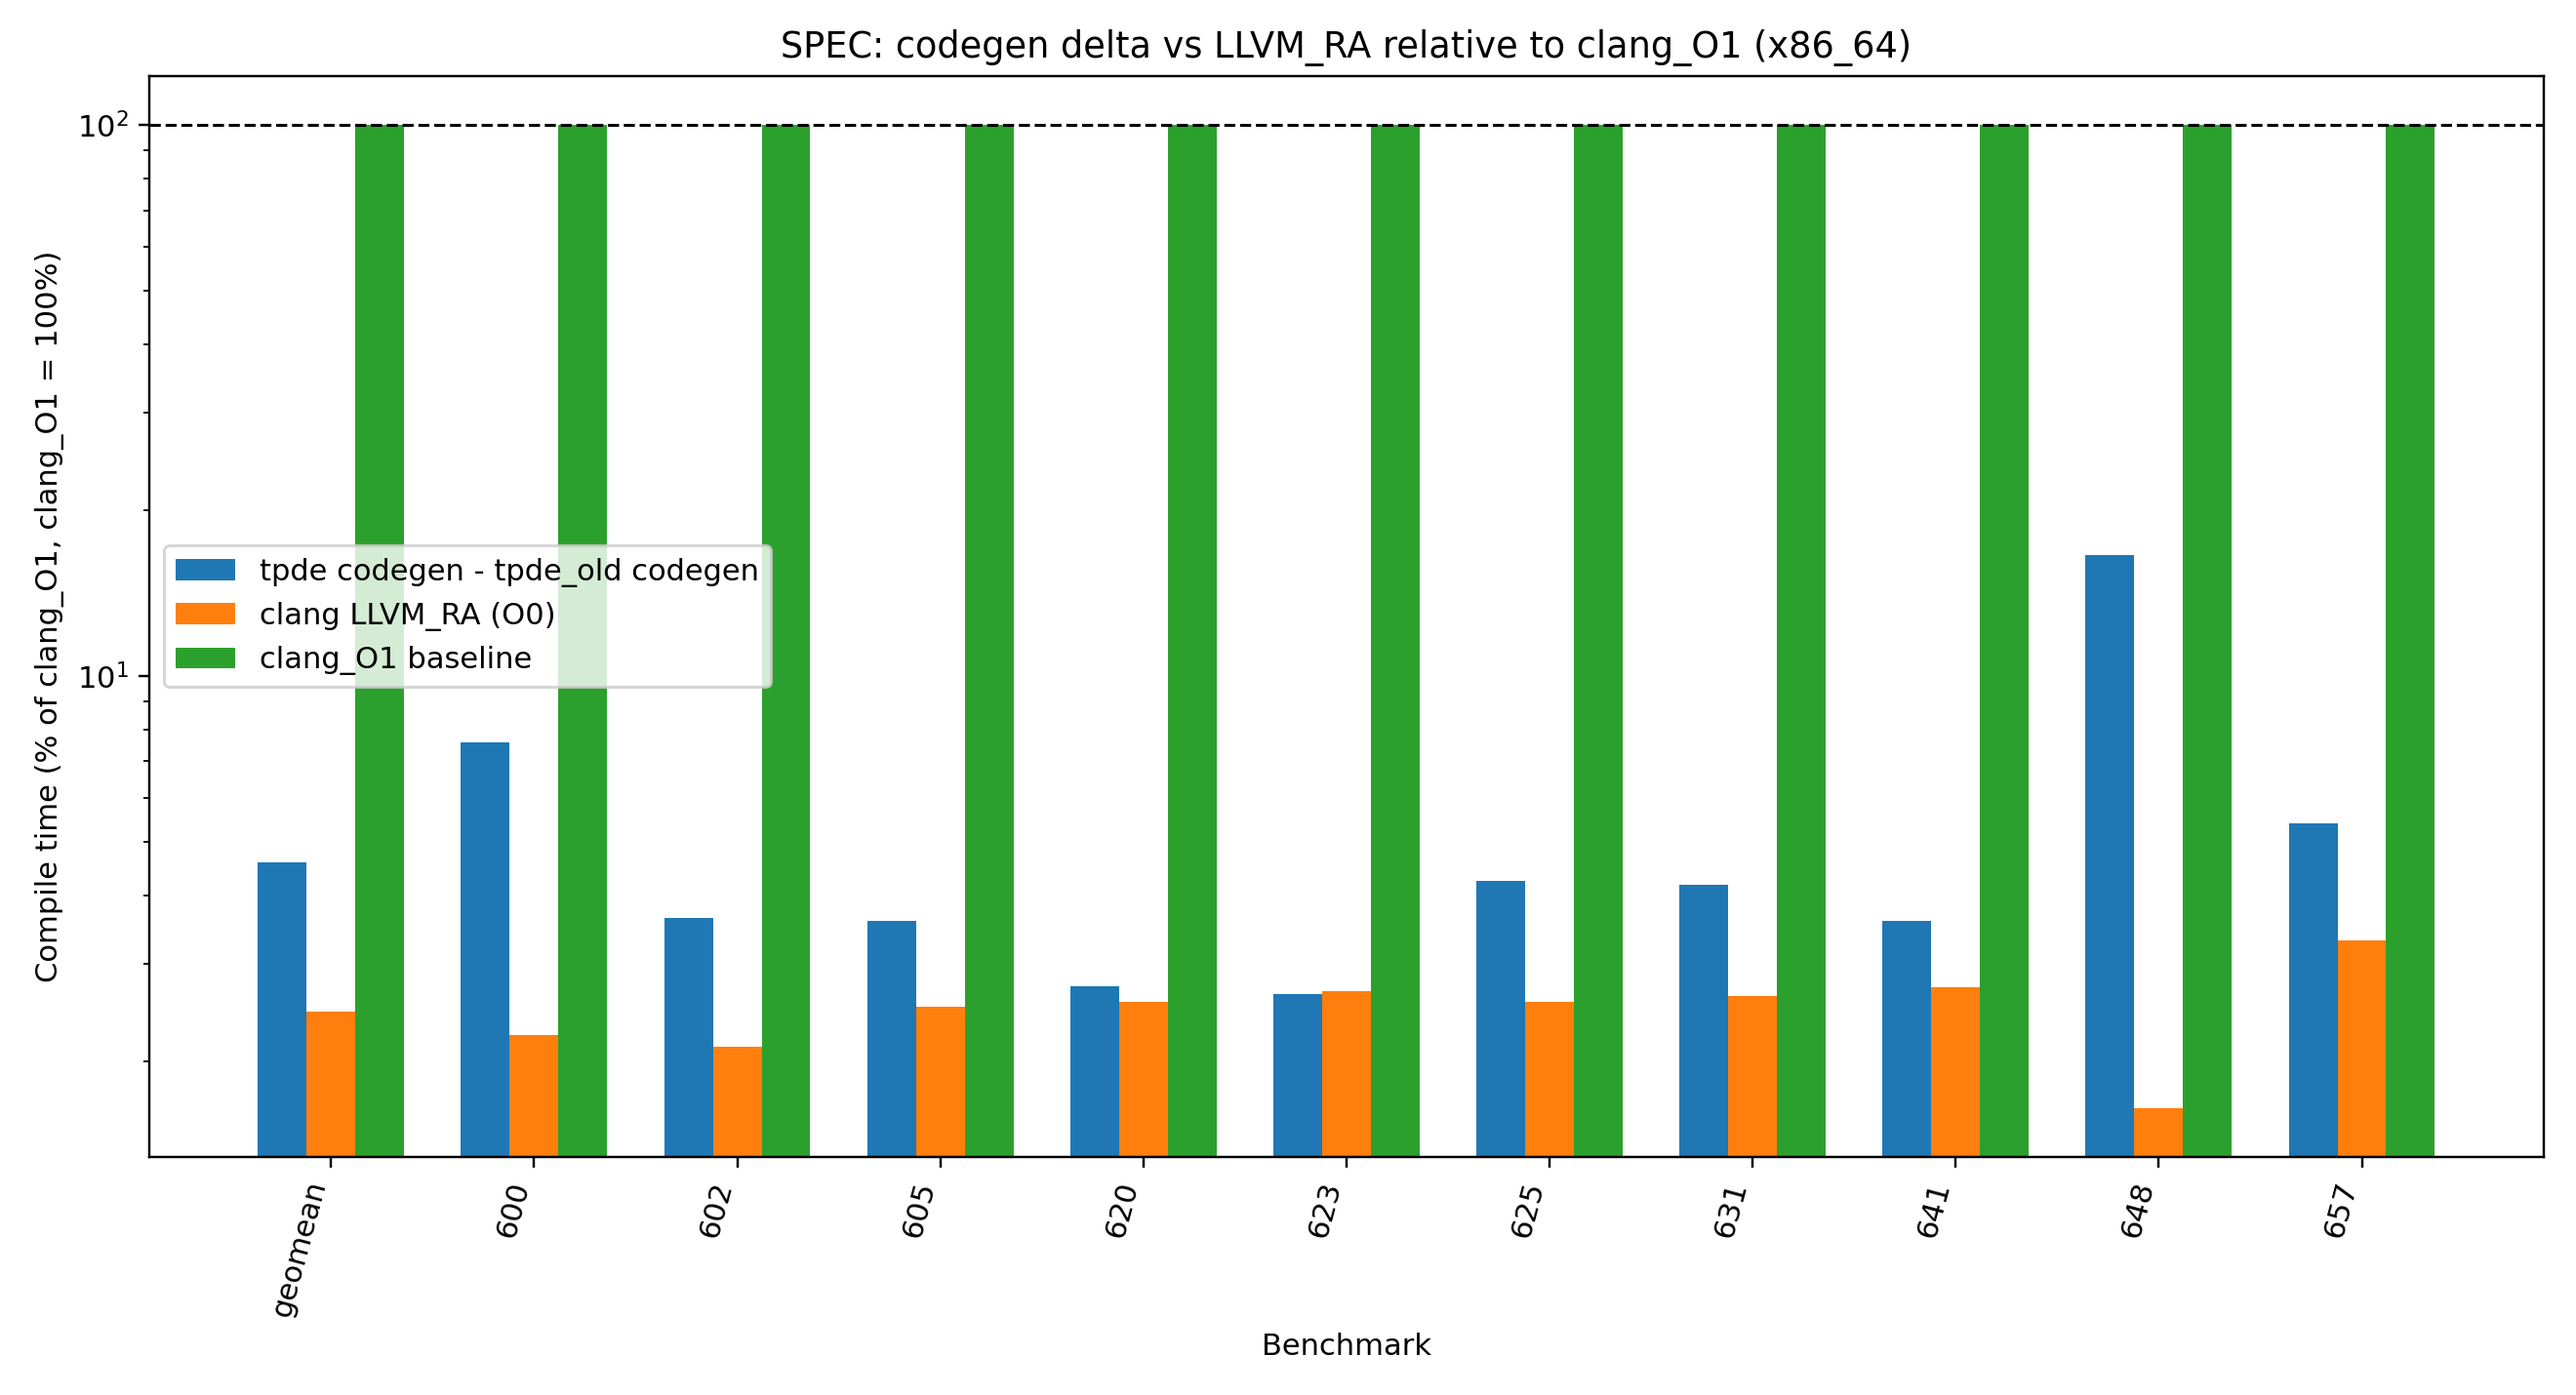
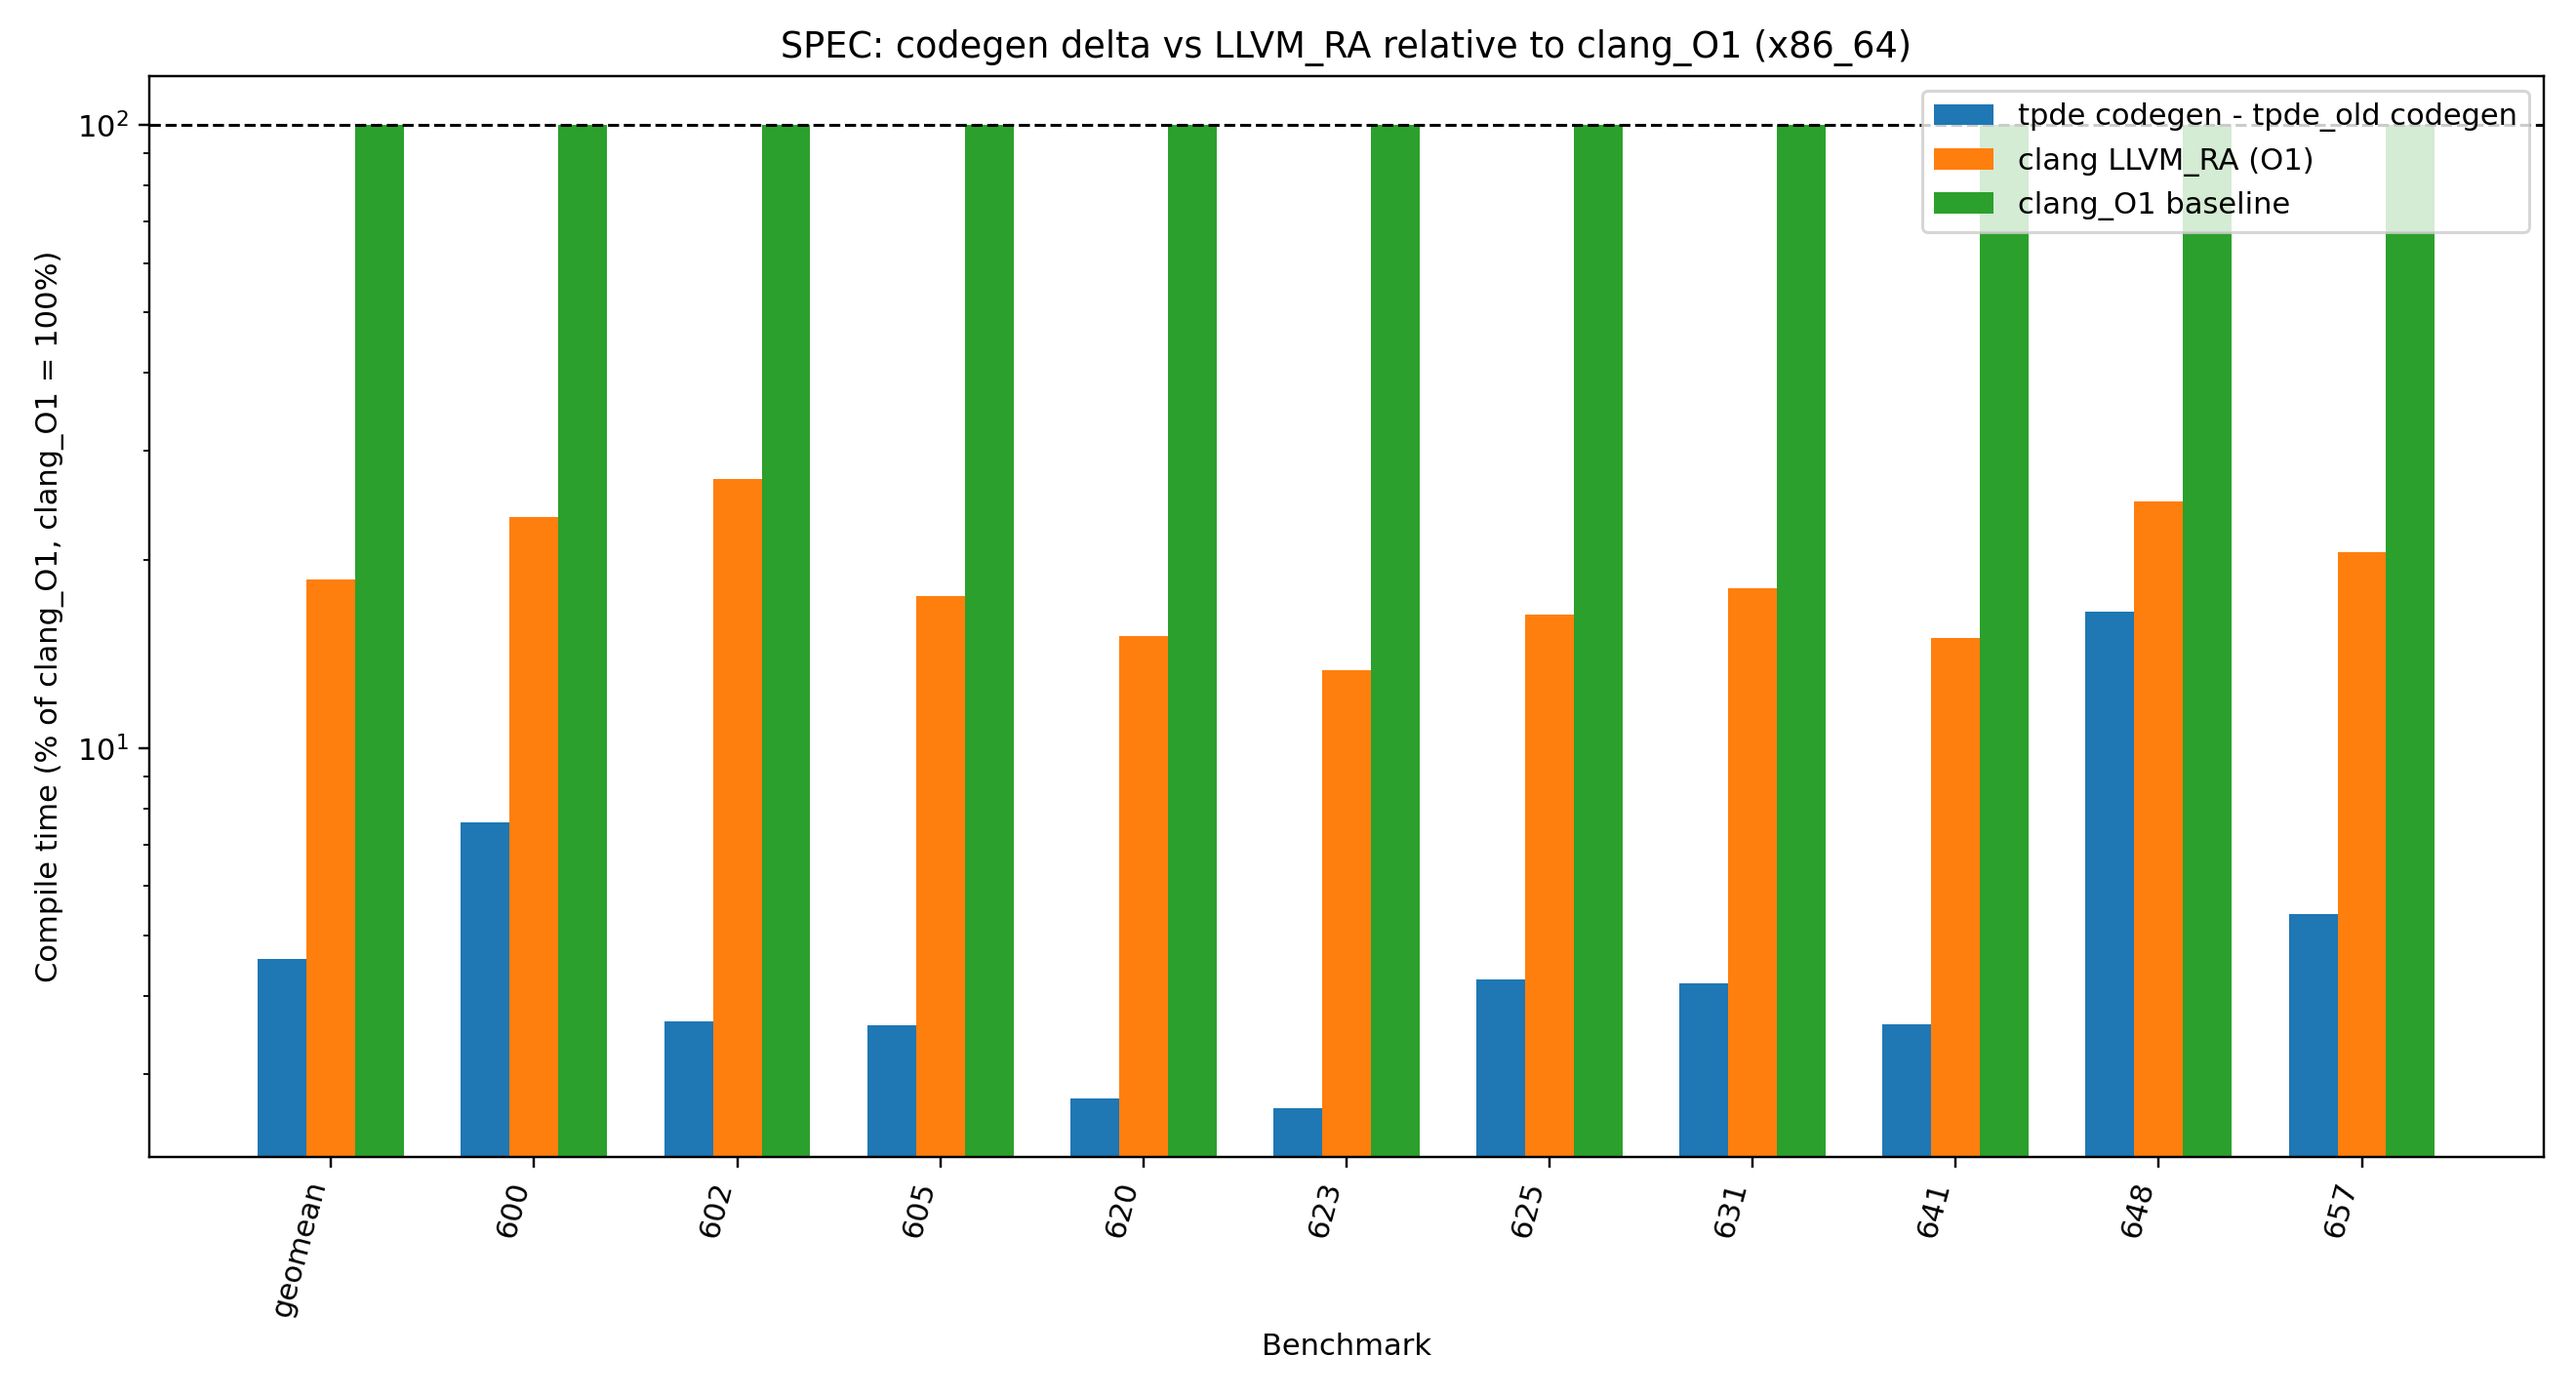
newest

diff --git a/bench/latex/plot_compiletime_suite_spec.py b/bench/latex/plot_compiletime_suite_spec.py
@@ -733,15 +733,17 @@ def build_spec_plots(input_dir: Path, output_dir: Path, arch: str) -> list[Path]
     delta_keys = [
         ("codegen", "tpde"),
         ("codegen", "tpde_old"),
-        ("LLVM_RA", "clang"),
     ]
     delta_benches = common_benches(bench_o0, values_o0, delta_keys)
+    delta_benches = [
+        b for b in delta_benches if ("LLVM_RA", "clang") in values_o1.get(b, {})
+    ]
     if delta_benches:
         delta = [
             values_o0[b][("codegen", "tpde")] - values_o0[b][("codegen", "tpde_old")]
             for b in delta_benches
         ]
-        llvm_ra = [values_o0[b][("LLVM_RA", "clang")] for b in delta_benches]
+        llvm_ra = [values_o1[b][("LLVM_RA", "clang")] for b in delta_benches]
         positive_rows = [
             (b, d, r)
             for b, d, r in zip(delta_benches, delta, llvm_ra)
@@ -753,13 +755,13 @@ def build_spec_plots(input_dir: Path, output_dir: Path, arch: str) -> list[Path]
             labels_abs = ["geomean"] + delta_benches
             raw_series = {
                 "tpde codegen - tpde_old codegen": [d for _, d, _ in positive_rows],
-                "clang LLVM_RA (O0)": [r for _, _, r in positive_rows],
+                "clang LLVM_RA (O1)": [r for _, _, r in positive_rows],
             }
             series_abs = {
                 "tpde codegen - tpde_old codegen": with_geomean(
                     raw_series["tpde codegen - tpde_old codegen"]
                 ),
-                "clang LLVM_RA (O0)": with_geomean(raw_series["clang LLVM_RA (O0)"]),
+                "clang LLVM_RA (O1)": with_geomean(raw_series["clang LLVM_RA (O1)"]),
             }
             out = output_dir / f"ct_codegen_delta_vs_llvm_ra_spec_{arch}.png"
             plot_grouped(
